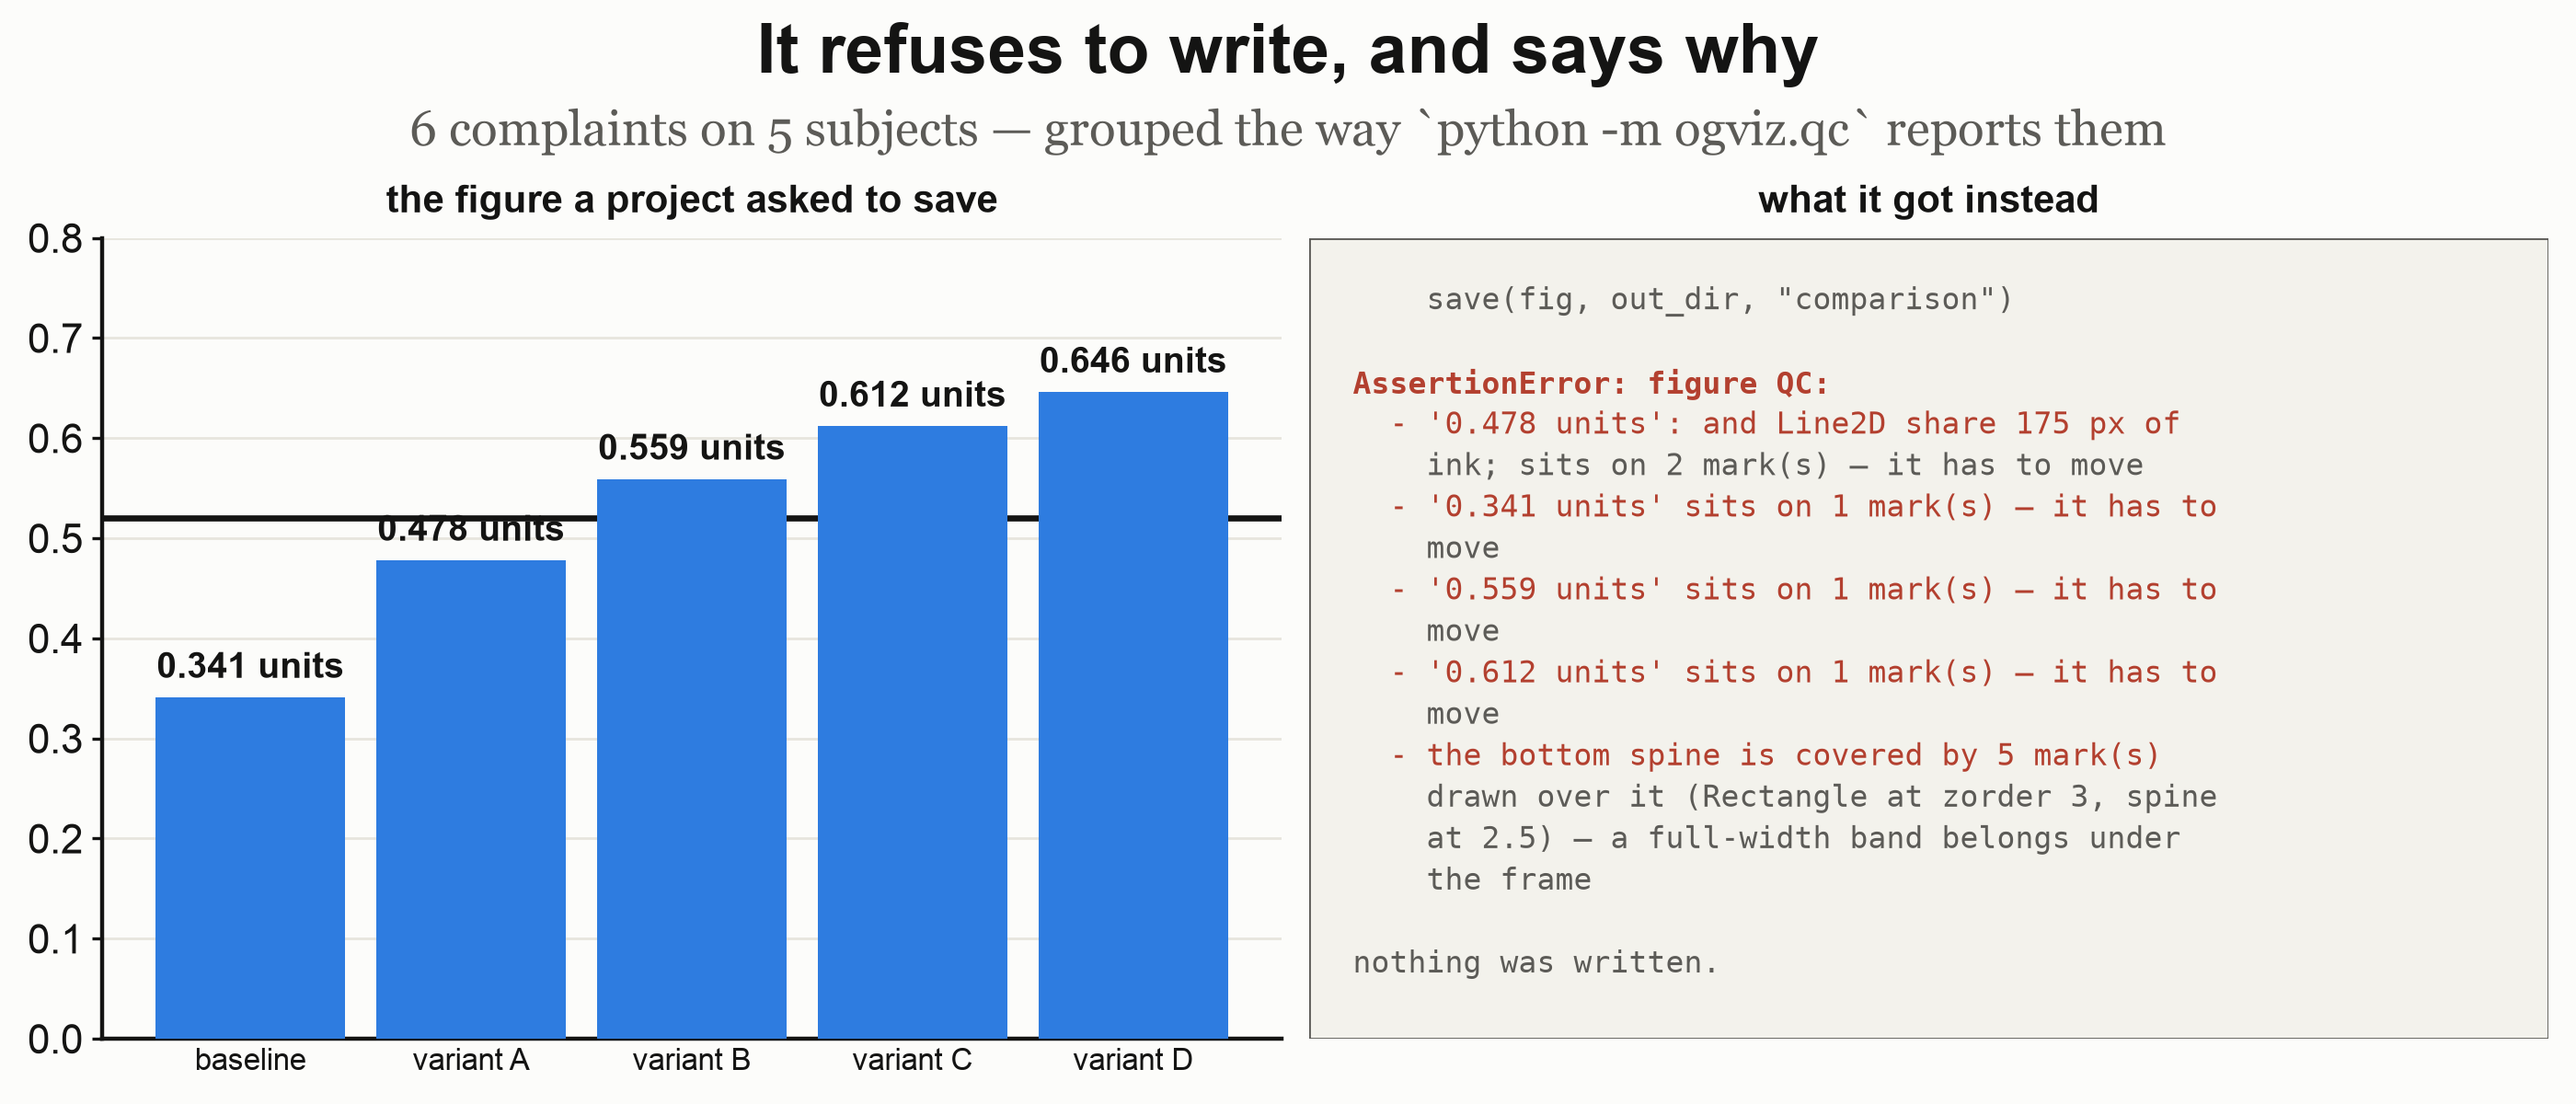
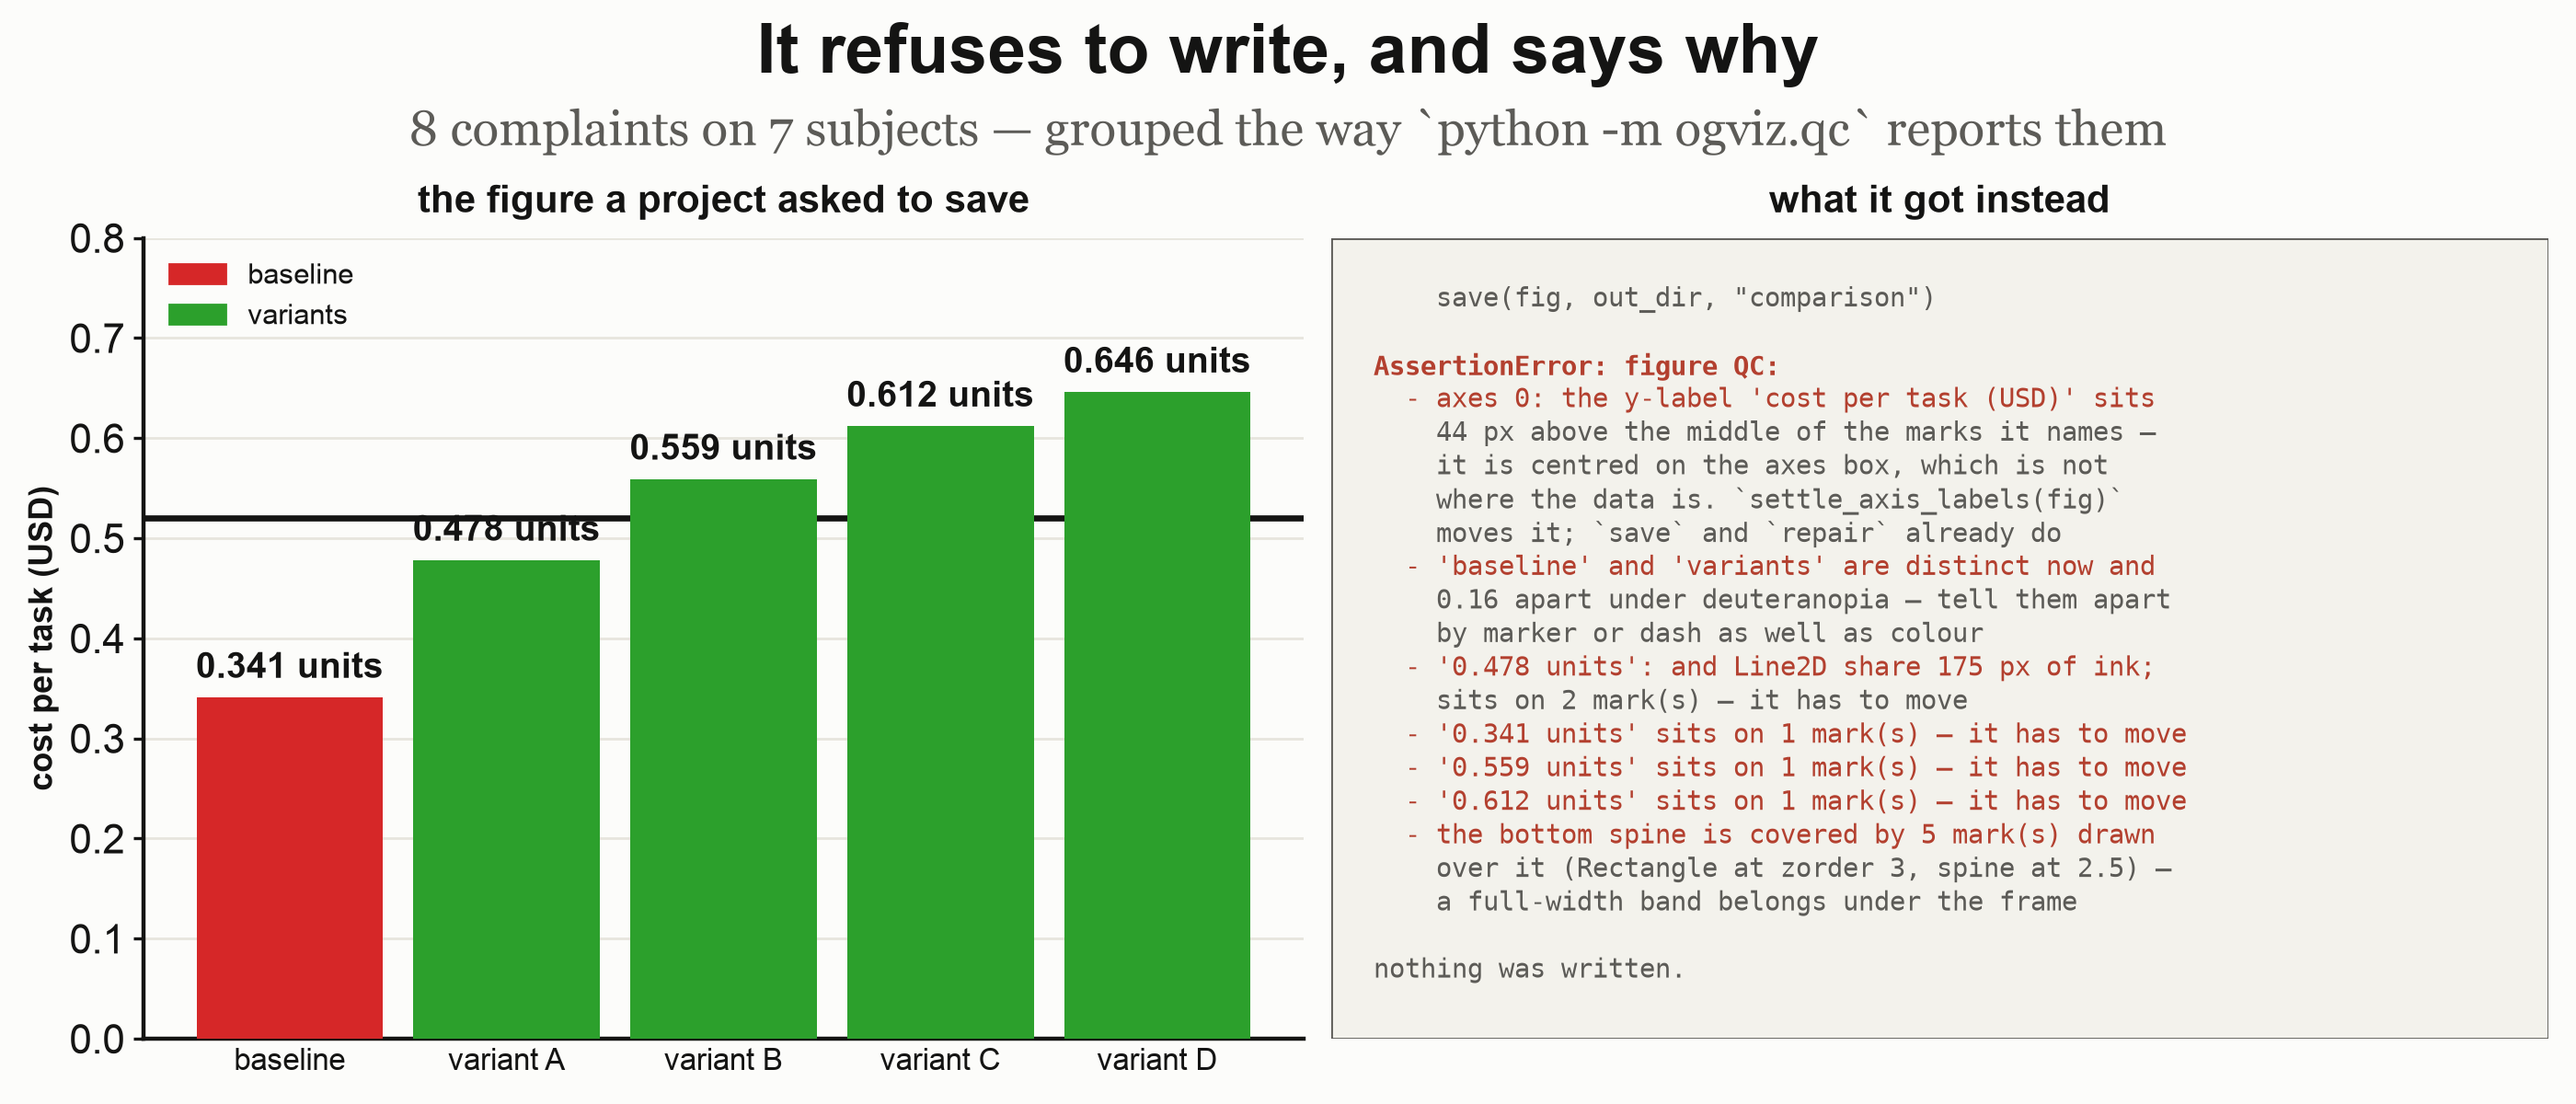
docs(gate): the exhibit carries two more defects, so the card shows two more
The same figure, not a new one: a y-axis title centred on the axes box — which on
a panel with headroom means it names room no bar can reach — and a red/green pair
named in a legend. Six complaints on five subjects becomes eight on seven.

Both were chosen because nothing else on the card showed them. Four of the six
old lines were near-identical "sits on N mark(s)"; the two added are a layout
defect a reader found on a real figure, and the one defect an author cannot check
by looking.

The card had to learn to fit VERTICALLY. Its rows are spread over a fixed 0.88 of
the height, so each new complaint tightened the spacing while the type stayed
12 pt — and at two more subjects the lines overlapped, on a figure whose entire
subject is text that overlaps. The size now comes from the room a row actually
gets. Only the width was being fitted, and the height was assumed.

`save` would settle the axis title, which is why this defect survives in the one
example that bypasses `save` and nowhere else in the gallery.

diff --git a/examples/__main__.py b/examples/__main__.py
@@ -628,10 +628,18 @@ def the_gate() -> None:
     the count in the subtitle is their length, so the figure cannot claim a defect the checks did
     not find, and cannot go stale when a message is reworded.
 
+    WHAT THE PANEL EXHIBITS, and each is there because nothing else on the card shows it: a
+    threshold drawn UNDER the bars it is read against; value labels standing on the marks; an axis
+    title centred on the box, which on a panel with headroom means it names room no bar can reach;
+    and a red/green pair named in a legend, which is the one defect an author cannot check by
+    looking. The last two were added after a reader found the axis title on a real figure.
+
     THE LEFT PANEL IS SUPPOSED TO FAIL, which is why this uses `fig.savefig` where every other
     example uses `save` — `save` runs the gate and refuses, correctly, since it cannot know the
-    panel is an exhibit. The bypass is asserted rather than trusted: `_assert_shows_the_defect`
-    rebuilds that panel alone and fails the build if it has stopped being refused. It keeps the
+    panel is an exhibit. `save` would also SETTLE the axis title, which is why the defect survives
+    here and nowhere else in the gallery. The bypass is asserted rather than trusted:
+    `_assert_shows_the_defect` rebuilds that panel alone and fails the build if it has stopped
+    being refused. It keeps the
     GLYPH check, though, because that one costs nothing and a tofu box here would be embarrassing.
     """
     import textwrap
@@ -643,8 +651,20 @@ def the_gate() -> None:
     values = np.array([0.341, 0.478, 0.559, 0.612, 0.646])
     threshold = 0.52
 
+    # The textbook confusable pair, and the reason it is here rather than a nicer one: a reader
+    # with deuteranomaly cannot tell these two apart, and the author cannot see that by looking.
+    baseline_red, variant_green = "#D62728", "#2CA02C"
+
     def build(ax) -> None:
-        ax.bar(range(len(values)), values, color=series_colors(3)[2], width=0.86, zorder=3)
+        from matplotlib.patches import Patch
+
+        ax.bar(
+            range(len(values)),
+            values,
+            color=[baseline_red, *[variant_green] * (len(values) - 1)],
+            width=0.86,
+            zorder=3,
+        )
         ax.axhline(threshold, color=INK, lw=2.4, zorder=1)  # UNDER the bars, which is the defect
         for index, value in enumerate(values):
             ax.text(
@@ -661,6 +681,19 @@ def the_gate() -> None:
         ax.set_xticks(range(len(values)))
         ax.set_xticklabels([*ARM_LABELS, "variant D"], fontsize=12)
         ax.set_ylim(0.0, 0.80)
+        # The axis title, and the panel is 0.15 of its own height taller than the bars reach — so
+        # matplotlib centres this on the box and it ends up naming room no bar can occupy. The
+        # defect a reader reported on a real figure, and the one nothing else on this card catches.
+        ax.set_ylabel("cost per task (USD)", fontsize=13, fontweight="bold")
+        ax.legend(
+            handles=[
+                Patch(color=baseline_red, label="baseline"),
+                Patch(color=variant_green, label="variants"),
+            ],
+            loc="upper left",
+            fontsize=11,
+            frameon=False,
+        )
         hairline_grid(ax, axis="y")
         for side in ("top", "right"):
             ax.spines[side].set_visible(False)
@@ -701,18 +734,28 @@ def the_gate() -> None:
     # MEASURED, not guessed. The first version truncated each complaint at 59 characters and the
     # longest still ran past the card — a figure about a layout checker with text out of its own
     # box. Narrow the wrap until every line fits the card it is drawn on, and refuse if none does.
+    #
+    # BOTH DIMENSIONS, because only the width was fitted and the height was assumed. The rows are
+    # spread over a fixed 0.88 of the card, so each new complaint tightens the spacing while the
+    # type stays 12 pt — and once two more subjects were added the lines overlapped each other, on
+    # a figure whose whole subject is text that overlaps. The size now comes from the room a row
+    # actually gets, which is the same measurement `save` would make of it.
     drawn: list = []
     for width in range(72, 28, -2):
         for text in drawn:
             text.remove()
         lines = card(width)
+        step = 0.88 / max(len(lines), 1)
+        room = report.get_window_extent()
+        # 1.32 is the leading a monospace row needs before its descenders reach the next ascender.
+        size = min(12.0, to_points(room.height * step, fig=fig) / 1.32)
         drawn = [
             report.text(
                 0.035,
-                0.94 - index * (0.88 / max(len(lines), 1)),
+                0.94 - index * step,
                 line,
                 family="monospace",
-                fontsize=12,
+                fontsize=size,
                 color="#B3402F" if line.lstrip().startswith(("AssertionError", "-")) else MUTED_INK,
                 fontweight="bold" if line.startswith("AssertionError") else "normal",
                 va="top",

diff --git a/README.md b/README.md
@@ -118,9 +118,10 @@ so one can be asked for by name — 3E, 1C.
 `save` runs it. `guard()` extends it to every `fig.savefig`, whoever called it; `OGVIZ_GUARD=1` does
 the same with no code change. Both also refuse a tofu box — text with no glyph in the resolved font.
 
-It catches colliding text, labels sitting on the marks, clipped ink, buried spines and thresholds,
-stars at uneven distances, dots on the mean line, ungrouped thousands, mixed minus signs, and two
-legend series that merge under colour-vision deficiency. `--list-checks` prints the current set.
+It catches colliding text, labels sitting on the marks, an axis title centred on room the data
+never reaches, clipped ink, buried spines and thresholds, stars at uneven distances, dots on the
+mean line, ungrouped thousands, mixed minus signs, and two legend series that merge under
+colour-vision deficiency. `--list-checks` prints the current set.
 
 Where a linter reads a chart specification, these read the RENDERED figure — so they work on any
 matplotlib figure, from any project:
